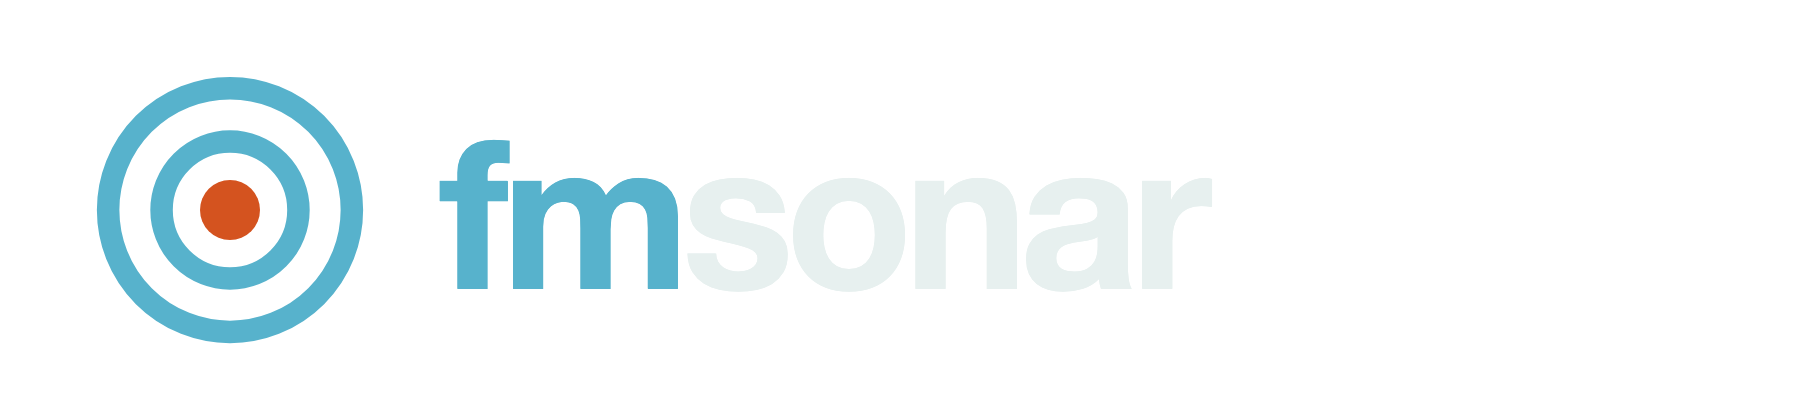
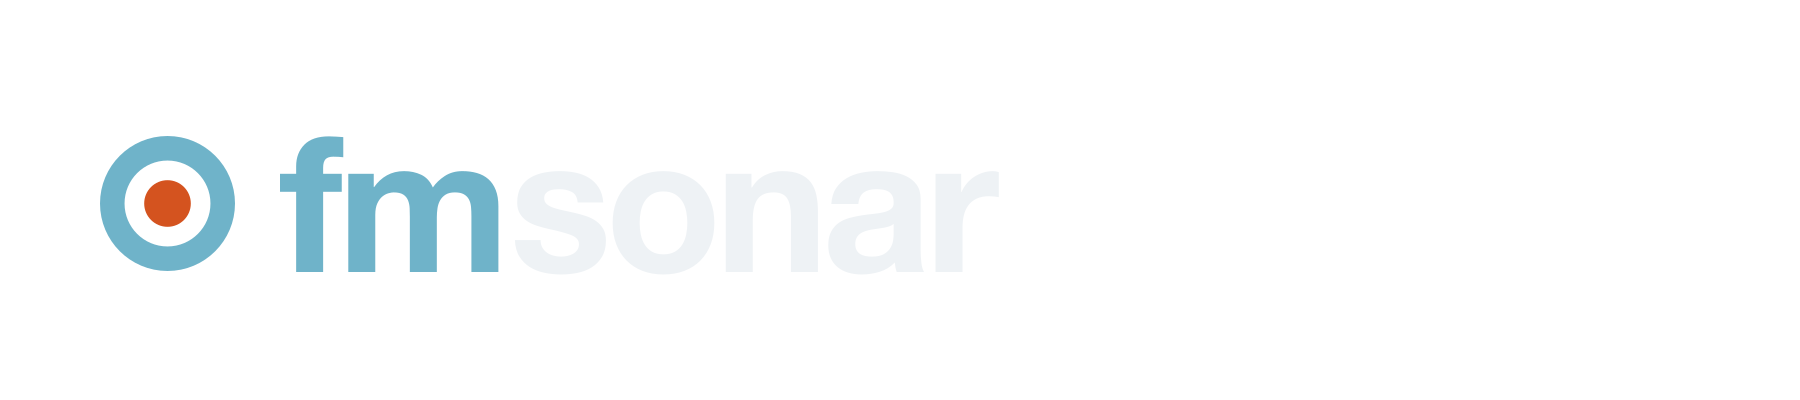
Mark: one ring and a dot, ring as high as the f, stroke at letter weight

Changed region(s): [[0.0311, 0.18, 0.4044, 0.84]]

diff --git a/fm_ddr/web/index.html b/fm_ddr/web/index.html
@@ -241,7 +241,7 @@ button.btn:hover{border-color:var(--accent);color:var(--accent)}
 </head>
 <body>
 <header>
-  <h1><svg width="24" height="24" viewBox="0 0 32 32" aria-hidden="true"><circle cx="16" cy="16" r="13" fill="none" stroke="var(--ring)" stroke-width="2.6"/><circle cx="16" cy="16" r="7.3" fill="none" stroke="var(--ring)" stroke-width="2.6"/><circle cx="16" cy="16" r="3.4" fill="#D4531F"/></svg><span><span class="fm">fm</span>sonar</span></h1>
+  <h1><svg width="24" height="24" viewBox="0 0 32 32" aria-hidden="true"><circle cx="16" cy="16" r="9" fill="none" stroke="var(--ring)" stroke-width="4.0"/><circle cx="16" cy="16" r="3.8" fill="#D4531F"/></svg><span><span class="fm">fm</span>sonar</span></h1>
   <span class="sub" id="meta"></span>
   <span class="actions">
     <button class="btn" id="reset" style="display:none">Open another DDR</button>
